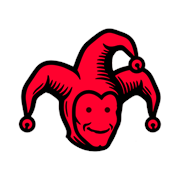
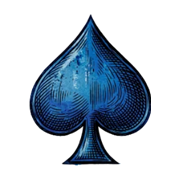
Icone do site: naipe de Espadas no lugar do chapeu de bobo

diff --git a/index.html b/index.html
@@ -11,9 +11,9 @@
   <meta http-equiv="Content-Security-Policy" content="default-src 'self'; script-src 'self' https://cdnjs.cloudflare.com https://cdn.jsdelivr.net; style-src 'self' 'unsafe-inline'; img-src 'self' data: blob:; font-src 'self'; connect-src 'self' https://0.peerjs.com wss://0.peerjs.com; object-src 'none'; base-uri 'self'; form-action 'none'; frame-src 'none'">
   <meta name="referrer" content="no-referrer">
   <title data-i18n="jogo.nome">Lady and Gentlemen</title>
-  <link rel="icon" type="image/png" sizes="32x32" href="arte/icone/icone-32.png">
-  <link rel="icon" type="image/png" sizes="192x192" href="arte/icone/icone-192.png">
-  <link rel="apple-touch-icon" href="arte/icone/icone-180.png">
+  <link rel="icon" type="image/png" sizes="32x32" href="arte/icone/icone-32.png?v=2">
+  <link rel="icon" type="image/png" sizes="192x192" href="arte/icone/icone-192.png?v=2">
+  <link rel="apple-touch-icon" href="arte/icone/icone-180.png?v=2">
   <!-- O menu aparece primeiro: as fontes e as imagens dele começam a baixar junto com o CSS. O resto do jogo
        (dado 3D, online, arte da mesa) só carrega depois, na hora em que for preciso. -->
   <link rel="preload" href="fontes/SeventyMoney-Regular.ttf" as="font" type="font/ttf" crossorigin>
